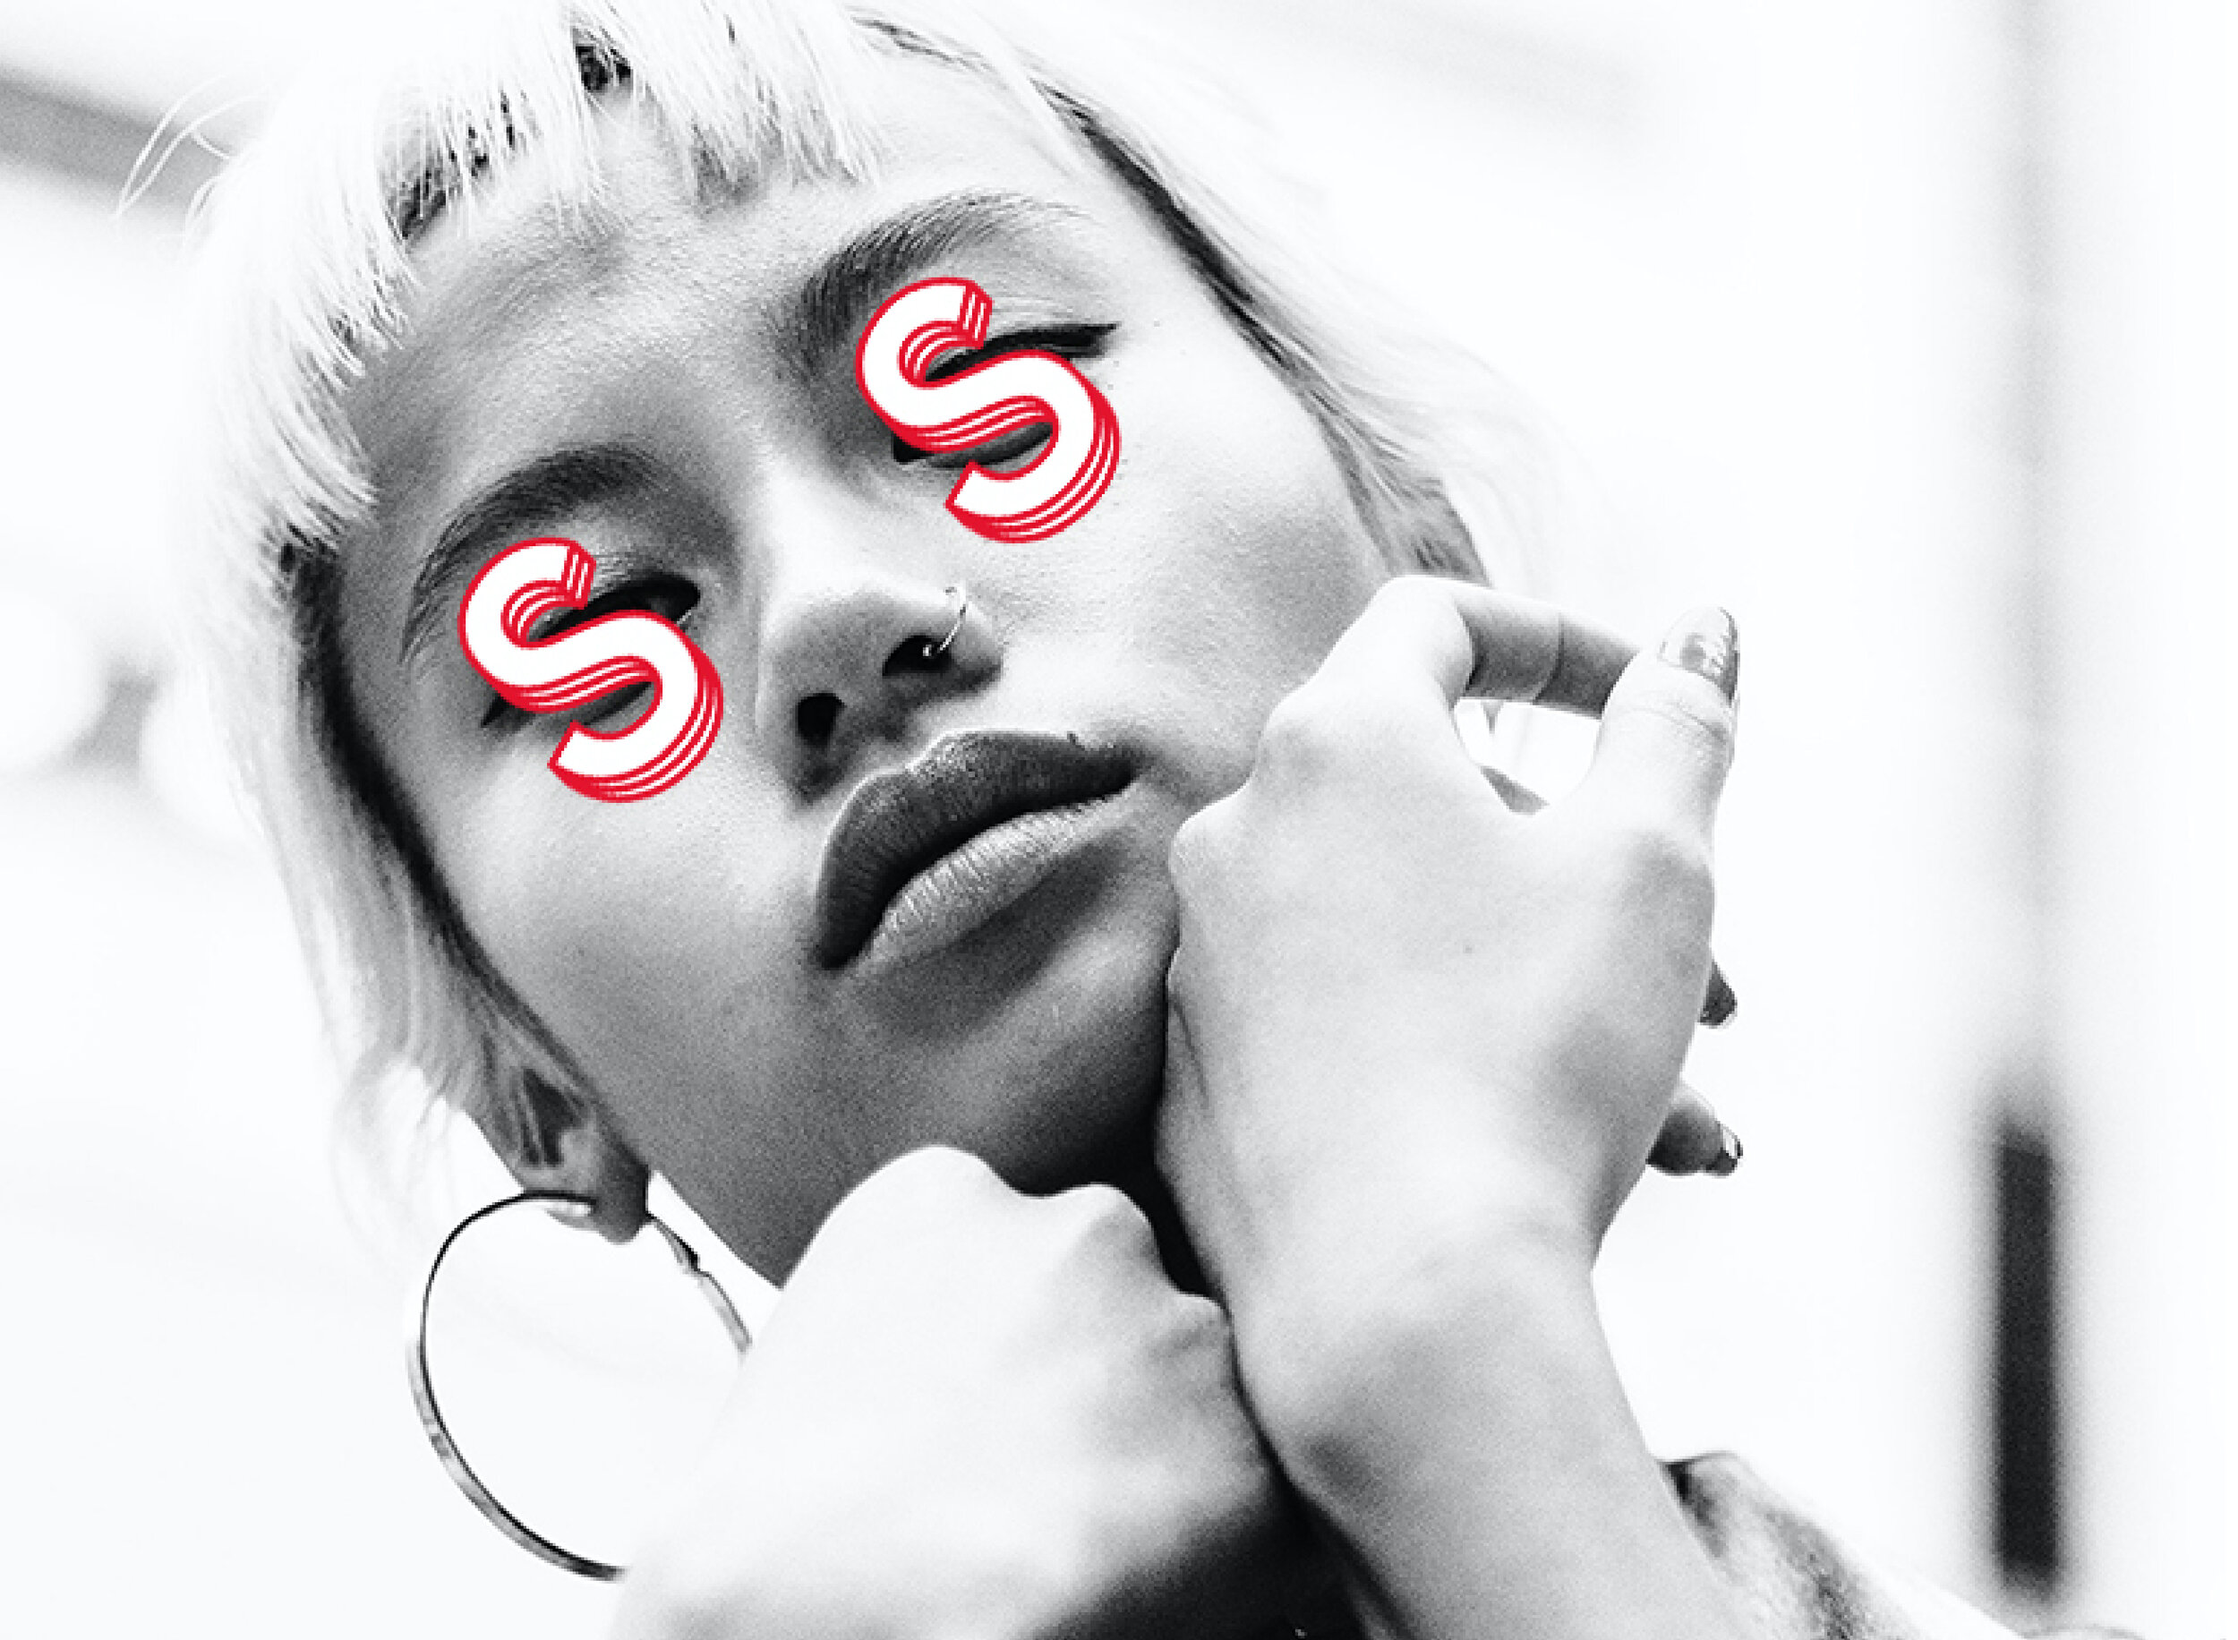
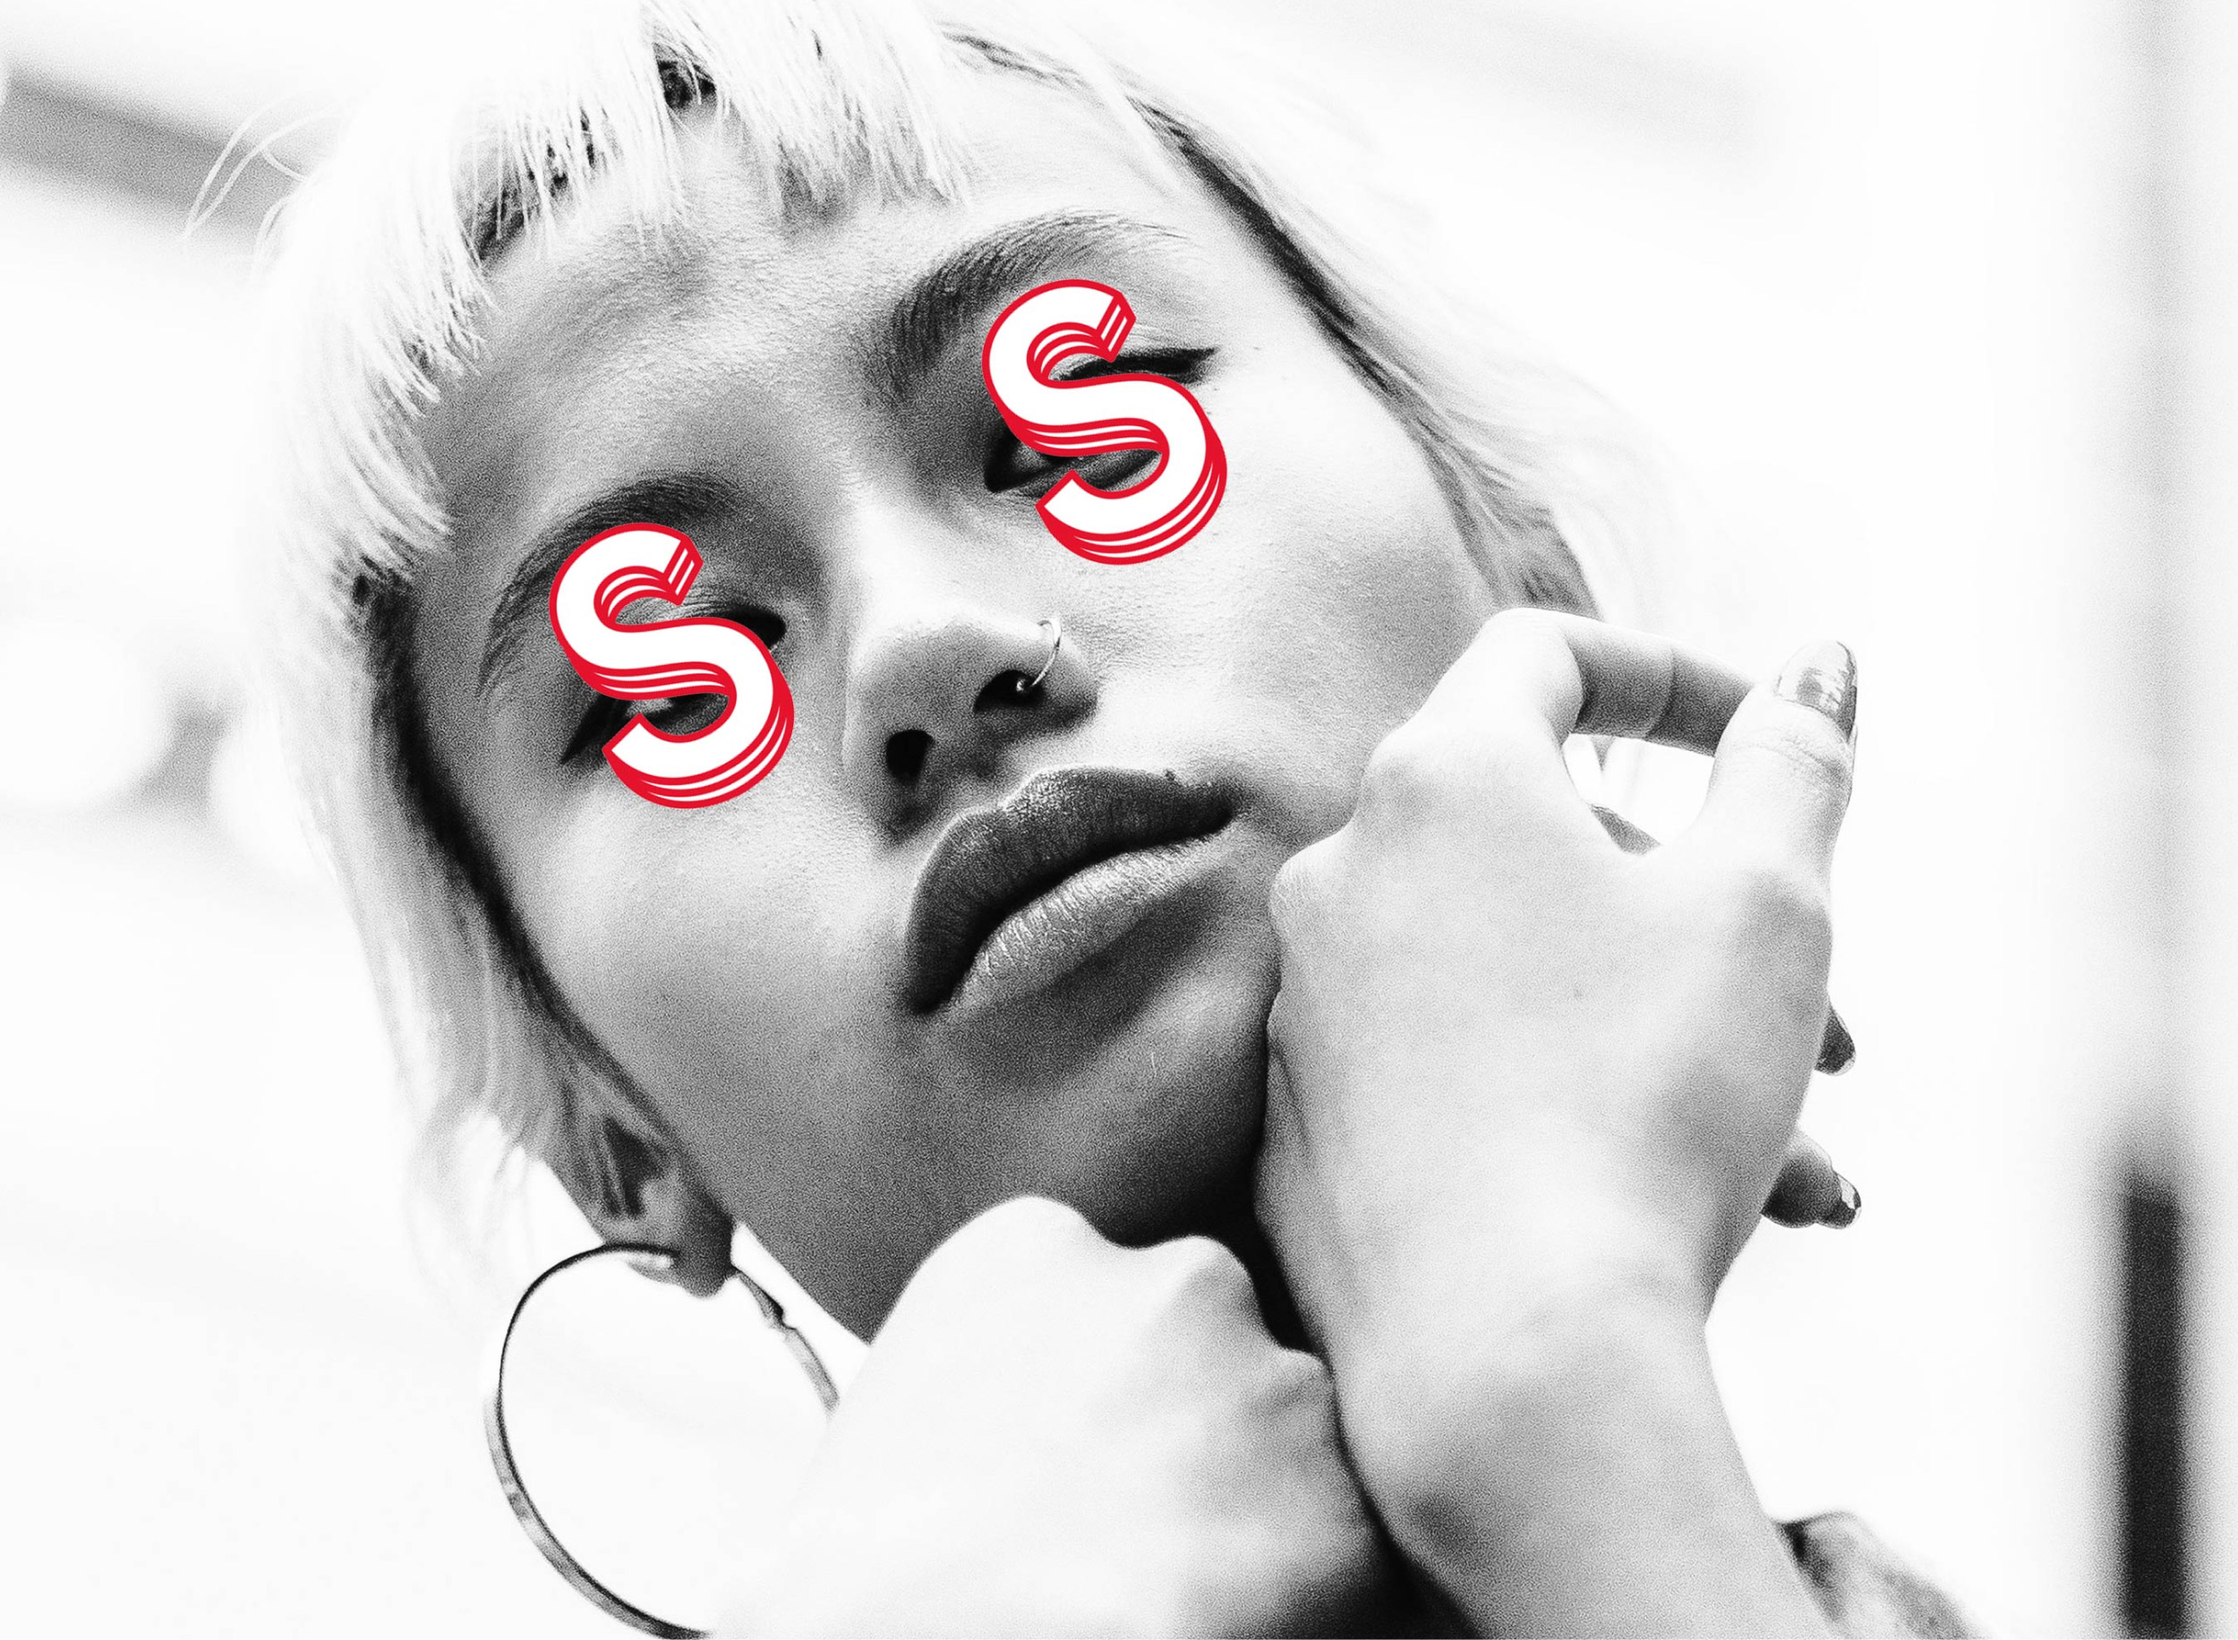
new project

diff --git a/dist/cmdn.html b/dist/cmdn.html
@@ -42,36 +42,23 @@
             <div class="project-inner container-fluid">
                 <div class="project-content">
                     <div class="project-copy" data-aos="fade-in" data-aos-delay="250">
-                        <h8>Sendmate</h8>
-                        <h9 class="desc">Sendmate, is a service that allows individuals, companies, and agencies to easily send personalized messages at scale via Facebook Messenger. I was tasked with developing the company CI and its web experience.</h9>
-                        <h9>Client: Sendmate</h9>
-                        <h9>Services: Branding, UI/UX Design 
-                            and marketing</h9>
-                        <h9>Year: 2018</h9>
+                        <h8>CMD+N</h8>
+                        <h9 class="desc">CMD+N IS A PERSONAL PROJECT THAT HAS ACCOMPANIED ME FOR YEARS. IT IS A VISUAL Exploration OF MY THOUGHTS coupled WITH Compelling DESIGN ELEMENTS LIKE TEXTURES, MATERIALS AND TYPOGRAPHY.</h9>
+                        <h9>Client: Personal Project</h9>
+                        <h9>Services: UI And Layout</h9>
+                        <h9>Year: 2020</h9>
                     </div>
 
                     <div class="project-image" data-aos="fade-in" data-aos-delay="500">
-                        <img src="images/Sendmate-2500x1390-joy_kuenzl-1.jpg">
+                        <img src="images/Cmd+n_2768x1567-joy_kuenzl-1.jpg">
                     </div>
 
                     <div class="project-image" data-aos="fade-in" data-aos-delay="500">
-                        <img src="images/Sendmate-2500x1569-joy_kuenzl-2.jpg">
+                        <img src="images/Cmd+n_2498x1570-joy_kuenzl-2.jpg">
                     </div>
 
                     <div class="project-image" data-aos="fade-in" data-aos-delay="500">
-                        <img src="images/Sendmate-2500x1832-joy_kuenzl-3.jpg">
-                    </div>
-
-                    <div class="project-image" data-aos="fade-in" data-aos-delay="500">
-                        <img src="images/Sendmate-2500x1573-joy_kuenzl-4.jpg">
-                    </div>
-
-                    <div class="project-image" data-aos="fade-in" data-aos-delay="500">
-                        <img src="images/Sendmate-2500x1569-joy_kuenzl-5.jpg">
-                    </div>
-
-                    <div class="project-image" data-aos="fade-in" data-aos-delay="500">
-                        <img src="images/Sendmate-2500x1570-joy_kuenzl-6.jpg">
+                        <img src="images/Cmd+n_2498x1600-joy_kuenzl-4.jpg">
                     </div>
                 </div>
             </div>

diff --git a/src/cmdn.html b/src/cmdn.html
@@ -42,36 +42,23 @@
             <div class="project-inner container-fluid">
                 <div class="project-content">
                     <div class="project-copy" data-aos="fade-in" data-aos-delay="250">
-                        <h8>Sendmate</h8>
-                        <h9 class="desc">Sendmate, is a service that allows individuals, companies, and agencies to easily send personalized messages at scale via Facebook Messenger. I was tasked with developing the company CI and its web experience.</h9>
-                        <h9>Client: Sendmate</h9>
-                        <h9>Services: Branding, UI/UX Design 
-                            and marketing</h9>
-                        <h9>Year: 2018</h9>
+                        <h8>CMD+N</h8>
+                        <h9 class="desc">CMD+N IS A PERSONAL PROJECT THAT HAS ACCOMPANIED ME FOR YEARS. IT IS A VISUAL Exploration OF MY THOUGHTS coupled WITH Compelling DESIGN ELEMENTS LIKE TEXTURES, MATERIALS AND TYPOGRAPHY.</h9>
+                        <h9>Client: Personal Project</h9>
+                        <h9>Services: UI And Layout</h9>
+                        <h9>Year: 2020</h9>
                     </div>
 
                     <div class="project-image" data-aos="fade-in" data-aos-delay="500">
-                        <img src="images/Sendmate-2500x1390-joy_kuenzl-1.jpg">
+                        <img src="images/Cmd+n_2768x1567-joy_kuenzl-1.jpg">
                     </div>
 
                     <div class="project-image" data-aos="fade-in" data-aos-delay="500">
-                        <img src="images/Sendmate-2500x1569-joy_kuenzl-2.jpg">
+                        <img src="images/Cmd+n_2498x1570-joy_kuenzl-2.jpg">
                     </div>
 
                     <div class="project-image" data-aos="fade-in" data-aos-delay="500">
-                        <img src="images/Sendmate-2500x1832-joy_kuenzl-3.jpg">
-                    </div>
-
-                    <div class="project-image" data-aos="fade-in" data-aos-delay="500">
-                        <img src="images/Sendmate-2500x1573-joy_kuenzl-4.jpg">
-                    </div>
-
-                    <div class="project-image" data-aos="fade-in" data-aos-delay="500">
-                        <img src="images/Sendmate-2500x1569-joy_kuenzl-5.jpg">
-                    </div>
-
-                    <div class="project-image" data-aos="fade-in" data-aos-delay="500">
-                        <img src="images/Sendmate-2500x1570-joy_kuenzl-6.jpg">
+                        <img src="images/Cmd+n_2498x1600-joy_kuenzl-4.jpg">
                     </div>
                 </div>
             </div>

diff --git a/dist/bogner.html b/dist/bogner.html
@@ -53,15 +53,15 @@
                     </div>
 
                     <div class="project-image" data-aos="fade-in" data-aos-delay="500">
-                        <img src="images/Bogner-2500x1292-joy_kuenzl-2.jpg">
+                        <img src="images/Bogner-2500x4835-joy_kuenzl-2.jpg">
                     </div>
 
                     <div class="project-image" data-aos="fade-in" data-aos-delay="500">
-                        <img src="images/Bogner-2500x1292-joy_kuenzl-3.jpg">
+                        <img src="images/Bogner-2500x1572-joy_kuenzl-3.jpg">
                     </div>
 
                     <div class="project-image" data-aos="fade-in" data-aos-delay="500">
-                        <img src="images/Bogner-2500x1560-joy_kuenzl-4.jpg">
+                        <img src="images/Bogner-2500x6446-joy_kuenzl-4.jpg">
                     </div>
 
                     <div class="project-image" data-aos="fade-in" data-aos-delay="500">

diff --git a/src/bogner.html b/src/bogner.html
@@ -53,15 +53,15 @@
                     </div>
 
                     <div class="project-image" data-aos="fade-in" data-aos-delay="500">
-                        <img src="images/Bogner-2500x1292-joy_kuenzl-2.jpg">
+                        <img src="images/Bogner-2500x4835-joy_kuenzl-2.jpg">
                     </div>
 
                     <div class="project-image" data-aos="fade-in" data-aos-delay="500">
-                        <img src="images/Bogner-2500x1292-joy_kuenzl-3.jpg">
+                        <img src="images/Bogner-2500x1572-joy_kuenzl-3.jpg">
                     </div>
 
                     <div class="project-image" data-aos="fade-in" data-aos-delay="500">
-                        <img src="images/Bogner-2500x1560-joy_kuenzl-4.jpg">
+                        <img src="images/Bogner-2500x6446-joy_kuenzl-4.jpg">
                     </div>
 
                     <div class="project-image" data-aos="fade-in" data-aos-delay="500">

diff --git a/src/sendmate.html b/src/sendmate.html
@@ -63,11 +63,15 @@
                     </div>
 
                     <div class="project-image" data-aos="fade-in" data-aos-delay="500">
-                        <img src="images/Sendmate-2500x1569-joy_kuenzl-4.jpg">
+                        <img src="images/Sendmate-2500x1573-joy_kuenzl-4.jpg">
                     </div>
 
                     <div class="project-image" data-aos="fade-in" data-aos-delay="500">
                         <img src="images/Sendmate-2500x1569-joy_kuenzl-5.jpg">
+                    </div>
+
+                    <div class="project-image" data-aos="fade-in" data-aos-delay="500">
+                        <img src="images/Sendmate-2500x1570-joy_kuenzl-6.jpg">
                     </div>
                 </div>
             </div>

diff --git a/dist/index.html b/dist/index.html
@@ -136,6 +136,18 @@
                             <img src="images/Sendmate-2500x1390-joy_kuenzl-1.jpg">
                         </div>
                     </div>
+
+                    <div class="client">
+                        <div>
+                            <p>Project</p>
+                            <h3>
+                                <a href="cmdn.html">CMD+N</a>
+                            </h3>
+                        </div>
+                        <div class="hover-image">
+                            <img src="images/Cmd+n_2768x1567-joy_kuenzl-1.jpg">
+                        </div>
+                    </div>
                 </div>
             </div>
         </section>

diff --git a/src/index.html b/src/index.html
@@ -136,6 +136,18 @@
                             <img src="images/Sendmate-2500x1390-joy_kuenzl-1.jpg">
                         </div>
                     </div>
+
+                    <div class="client">
+                        <div>
+                            <p>Project</p>
+                            <h3>
+                                <a href="cmdn.html">CMD+N</a>
+                            </h3>
+                        </div>
+                        <div class="hover-image">
+                            <img src="images/Cmd+n_2768x1567-joy_kuenzl-1.jpg">
+                        </div>
+                    </div>
                 </div>
             </div>
         </section>
